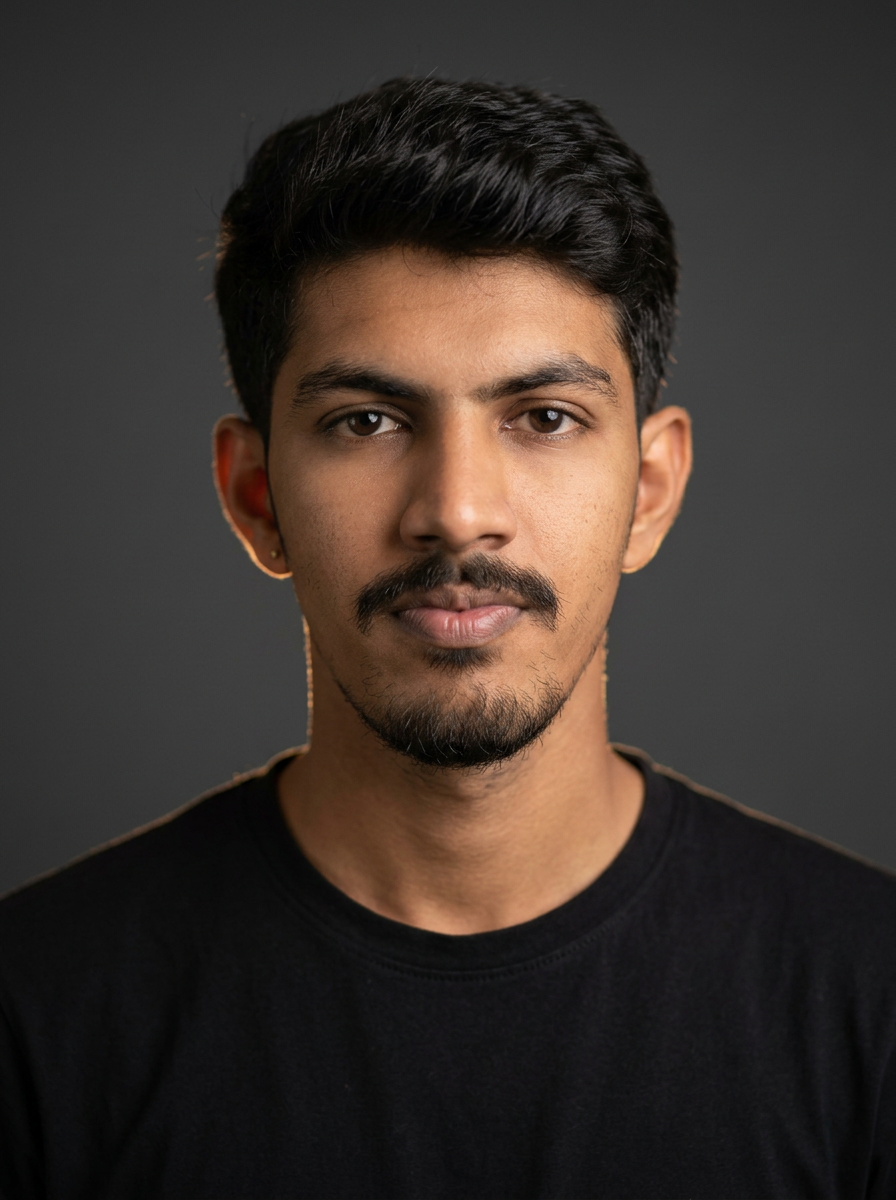
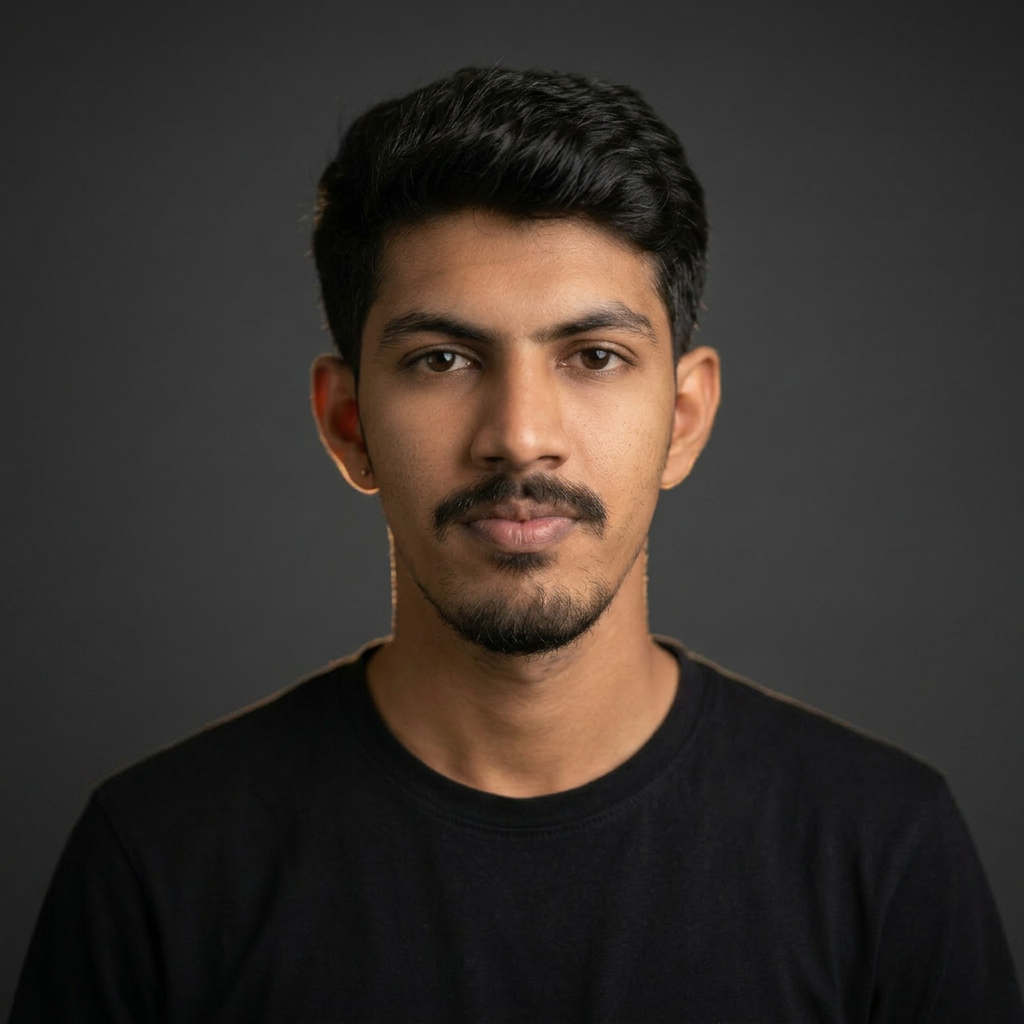
Changes

Changed region(s): [[0.0, 0.0625, 1.0, 0.9688]]

diff --git a/src/components/portfolio/Hero.tsx b/src/components/portfolio/Hero.tsx
@@ -53,11 +53,11 @@ export function Hero() {
             transition={{ duration: 0.7, delay: 0.3 }}
             className="relative rounded-2xl overflow-hidden glass-strong p-2"
           >
-            <div className="aspect-[3/4] w-full rounded-xl overflow-hidden grid-bg">
+            <div className="aspect-square w-full rounded-xl overflow-hidden grid-bg">
               <img
                 src={portrait}
                 alt="Rithik portrait"
-                className="h-full w-full object-cover object-top"
+                className="h-full w-full object-cover"
               />
             </div>
           </motion.div>
